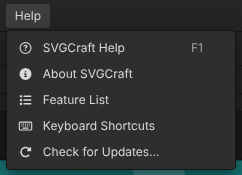
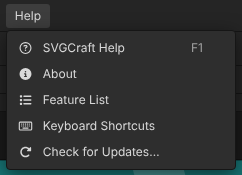
Shorter labels: "← Back" to the editor, "About" (#66)
* Help and About: the link back to the editor reads "← Back"

Claude-Session: https://claude.ai/code/session_01LfsWSwEFpFHrQHz6Da88na

* "About SVGCraft" reads "About": Help menu, phone Info, the check page

The Help menu item, the phone Info sheet's button and the animation
check's link say just "About". Help text and the Help menu screenshot
follow.

Claude-Session: https://claude.ai/code/session_01LfsWSwEFpFHrQHz6Da88na

---------

Changed region(s): [[0.3182, 0.3714, 0.5496, 0.4571]]

diff --git a/help.html b/help.html
@@ -353,7 +353,7 @@
           ><span class="count" id="count" aria-live="polite"></span
         ></span>
       </div>
-      <a href="index.html">Open SVGCraft</a>
+      <a href="index.html">← Back</a>
     </header>
     <div class="wrap">
       <nav aria-label="Topics">
@@ -599,8 +599,7 @@
                 <strong>Info</strong> (ⓘ): the drawing's details (file, size, dimensions, objects,
                 animations, fonts) and its metadata from File Info (title, author, description,
                 keywords, date, copyright, licence and source, linked), read-only.
-                <strong>Help</strong> opens this guide, and <strong>About SVGCraft</strong> is at
-                the bottom.
+                <strong>Help</strong> opens this guide, and <strong>About</strong> is at the bottom.
               </li>
             </ul>
             <h4>Showing and hiding objects</h4>

diff --git a/index.html b/index.html
@@ -614,7 +614,7 @@
               <i data-icon="circle-question"></i><span>SVGCraft Help</span><kbd>F1</kbd>
             </button>
             <button role="menuitem" data-action="about">
-              <i data-icon="circle-info"></i><span>About SVGCraft</span>
+              <i data-icon="circle-info"></i><span>About</span>
             </button>
             <button role="menuitem" data-action="aboutFeatures">
               <i data-icon="list"></i><span>Feature List</span>
@@ -3566,7 +3566,7 @@
       </div>
       <div class="sc-dialog-foot">
         <button class="sc-tbtn" id="sc-pinfo-help">Help</button>
-        <button class="sc-tbtn" id="sc-pinfo-about">About SVGCraft</button>
+        <button class="sc-tbtn" id="sc-pinfo-about">About</button>
         <button class="sc-tbtn sc-primary-btn" id="sc-pinfo-close">Close</button>
       </div>
     </dialog>

diff --git a/about.html b/about.html
@@ -1000,7 +1000,7 @@
           <a href="https://opentype.js.org">opentype.js</a>, both MIT. Web fonts come from Google
           Fonts and Fontsource.
         </p>
-        <p><a href="index.html">← Back to the editor</a></p>
+        <p><a href="index.html">← Back</a></p>
       </div>
     </footer>
   </body>

diff --git a/diagnostics.html b/diagnostics.html
@@ -284,7 +284,7 @@
         <h2>Report</h2>
         <pre id="report">Running…</pre>
       </section>
-      <p class="dim"><a href="about.html">About SVGCraft</a> · <a href="./">The editor</a></p>
+      <p class="dim"><a href="about.html">About</a> · <a href="./">The editor</a></p>
     </main>
 
     <script>

diff --git a/src/version.js b/src/version.js
@@ -2,4 +2,4 @@
 // scripts/gen-version.mjs. src/update.js compares it with the server's.
 'use strict';
 
-const APP_VERSION = 'afbd8a102f2d';
+const APP_VERSION = '19cb9516a072';

diff --git a/README.md b/README.md
@@ -53,7 +53,7 @@ the editor, so nothing you do there changes a drawing.
 - **Info** (ⓘ): the drawing's details (file, size, dimensions, objects,
   animations, fonts) and its metadata from File Info (title, author,
   description, keywords, date, copyright, licence and source, linked),
-  read-only. **Help** opens this guide, and **About SVGCraft** is at the
+  read-only. **Help** opens this guide, and **About** is at the
   bottom.
 
 #### Showing and hiding objects
@@ -3578,7 +3578,7 @@ name only to throw the kept copy away. `manifest.webmanifest` describes the
 app; its PNG icons are rendered from `favicon.svg` by
 `node scripts/gen-pwa-icons.mjs`.
 
-**The About page.** `about.html` (Help → About SVGCraft, Feature List or
+**The About page.** `about.html` (Help → About, Feature List or
 Keyboard Shortcuts, which open it in its own tab) is a static page with a
 feature overview, the shortcuts and the credits. Its screenshots in
 `about/` are taken from the real app by `node scripts/gen-about-screens.mjs`,
